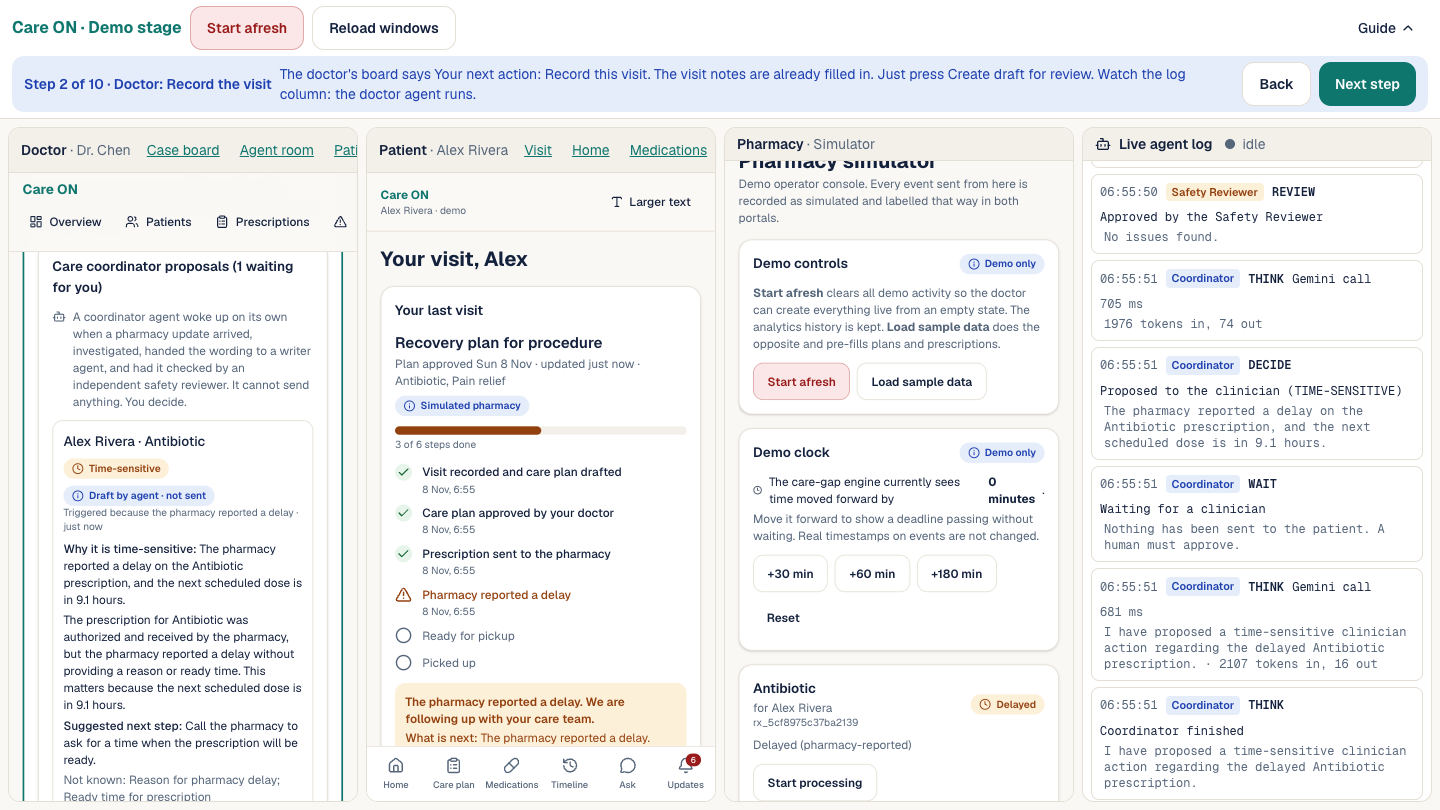
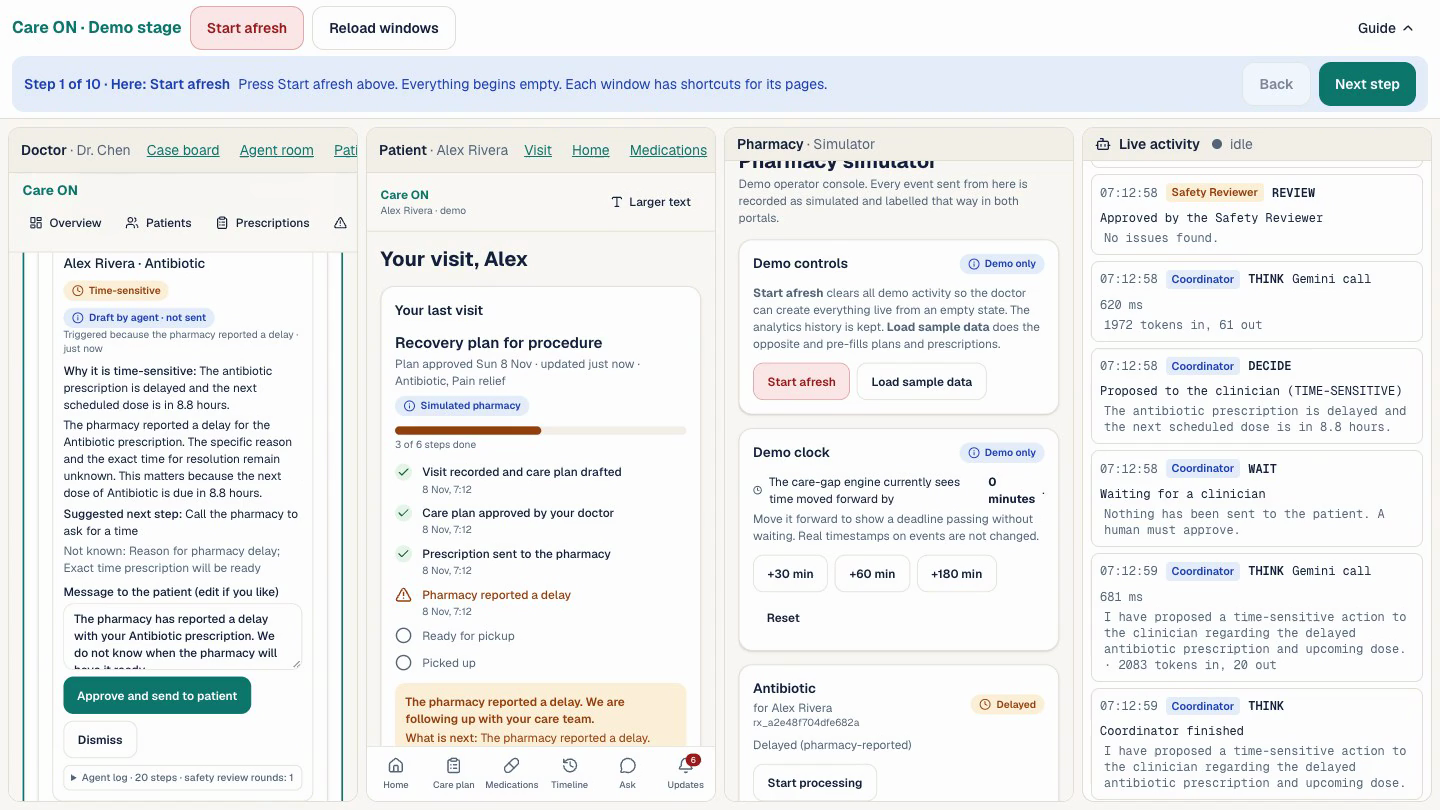
docs: README describes the activity timeline; refresh the demo and safety GIFs and screenshots

diff --git a/README.md b/README.md
@@ -21,7 +21,7 @@
 ![Tiger Data](https://img.shields.io/badge/Tiger_Data-TimescaleDB-fdb515?style=flat-square&logo=timescale&logoColor=black)
 ![Vultr](https://img.shields.io/badge/Vultr-007bfc?style=flat-square&logo=vultr&logoColor=white)
 ![Playwright](https://img.shields.io/badge/Playwright-2ead33?style=flat-square&logo=playwright&logoColor=white)
-![Tests](https://img.shields.io/badge/tests-140_passing-16a34a?style=flat-square)
+![Tests](https://img.shields.io/badge/tests-142_passing-16a34a?style=flat-square)
 
 </div>
 
@@ -33,13 +33,13 @@ Most of care happens **after** the appointment. The doctor writes a plan, a pres
 
 Care ON gives the patient, the doctor and the pharmacy **one shared, auditable timeline**, and puts a small team of AI agents on top of it. The agents **investigate, draft and check each other's work. A human always decides.**
 
-> 🧭 **In one picture:** a visit status bar for the patient, a "your next action" board for the doctor, and a live log that shows exactly what every agent did and why.
+> 🧭 **In one picture:** a visit status bar for the patient, a "your next action" board for the doctor, and a live activity timeline that shows exactly what every person, the system and every agent did, and why.
 
 ---
 
 ## 🎬 See it in action
 
-> Recorded from the real running product (real models, no mock-ups). The three windows are the doctor, the patient and the pharmacy simulator, side by side on the **Demo stage**, with the live agent log on the right.
+> Recorded from the real running product (real models, no mock-ups). The three windows are the doctor, the patient and the pharmacy simulator, side by side on the **Demo stage**, with the live activity timeline on the right.
 
 ### The whole care cycle, with the agents working
 <p align="center"><img src="assets/readme/demo-cycle.gif" alt="Doctor drafts a plan from visit notes, approves it, sends a prescription. The pharmacy reports a delay and the agents investigate, draft and get checked before a human approves." width="100%"/></p>
@@ -74,11 +74,11 @@ The app **describes** change in plain words ("up 5 bpm from the previous reading
 |---|---|
 | <img src="assets/readme/doctor-proposal.png" alt="Care coordinator proposal waiting for the doctor, marked time-sensitive with the reason"/> | <img src="assets/readme/patient-visit.png" alt="Patient visit status bar showing a pharmacy delay and what happens next"/> |
 
-| Live agent log | Agent room |
+| Live activity timeline | Agent room |
 |---|---|
 | <img src="assets/readme/agent-log.png" alt="Timestamped log of coordinator, writer and safety reviewer steps"/> | <img src="assets/readme/agent-room.png" alt="Agent room showing a run step by step"/> |
 
-<img src="assets/readme/stage-explainer.png" alt="Visit explained in plain words, with the live log showing the check against the plan"/>
+<img src="assets/readme/stage-explainer.png" alt="Visit explained in plain words, with the live timeline showing the check against the plan"/>
 
 </details>
 
@@ -92,7 +92,7 @@ The app **describes** change in plain words ("up 5 bpm from the previous reading
 | 🎯 | **Doctor Case board** | One patient, one **"Your next action"** at a time: record the visit, approve the plan, send a prescription, review the agents' proposal, answer a question. No hunting through tabs. |
 | 🤖 | **Care Coordinator** | Wakes by itself when the pharmacy reports a delay, a question or a rejection. Investigates with read-only tools, decides how urgent it is, and proposes. |
 | ✍ | **Writer + Safety Reviewer** | The Coordinator hands wording to a Writer. An independent Reviewer and code checks reject invented times, advice and reassurance. |
-| 📜 | **Live agent log** | Every model call, tool call, hand-off, rejection and human decision, timestamped, in a dock on every doctor page and a column on the Stage. |
+| 📜 | **Live activity timeline** | One timeline of everything that happens: what the doctor, patient and pharmacy did, what the system did, and every agent model call, tool call, hand-off, rejection and human decision, timestamped. Filter by **All**, **Agents** or **People and system**. Shown in a dock on every doctor page and a column on the Stage. |
 | 💬 | **Patient assistant** | Answers only from the patient's approved plan through permissioned tools. Clinical questions go to a human. |
 | 📖 | **Visit Explainer** | Turns the approved plan into everyday words with a glossary. Every line is checked in code against the plan; unsupported lines are removed. |
 | ❤ | **Home readings** | Patient-reported heart rate, blood pressure, pain and temperature, with plain-word trends and clinician-set ranges. |
@@ -168,7 +168,7 @@ flowchart LR
             PA["Patient assistant"]
             EX["Visit Explainer"]
         end
-        LOG["Live agent log"]
+        LOG["Live activity timeline"]
     end
 
     subgraph Models["Models"]
@@ -264,13 +264,13 @@ pnpm dev
 > No database? Add `CAREOS_STORE=memory` to run on a throwaway in-memory store.
 
 ### 3. Open the Demo stage
-Go to **`/demo/stage`**. It signs in the doctor, the patient and the pharmacy at once and shows them side by side with the live agent log.
+Go to **`/demo/stage`**. It signs in the doctor, the patient and the pharmacy at once and shows them side by side with the live activity timeline.
 
 1. Press **Start afresh**.
 2. **Doctor:** the board says "Record this visit". The notes are pre-filled, so press *Create draft for review*, then tick the box and *Approve care plan*.
 3. **Doctor:** "Send a prescription". The medicine is pre-filled from the plan, so press *Authorize prescription*.
 4. **Pharmacy:** *Receive*, *Acknowledge*, then **Report a delay**.
-5. Watch the **log column**: the Coordinator wakes, investigates, hands off to the Writer, gets reviewed, and proposes.
+5. Watch the **activity column**: you see each human step, the system steps, and then the Coordinator wake, investigate, hand off to the Writer, get reviewed, and propose. Use the filter (**All**, **Agents**, **People and system**) to follow just one side.
 6. **Doctor:** "Review what the agents prepared". Approve it. The patient's status bar and Updates show the message.
 
 ### 4. Optional: Tiger Data
@@ -283,7 +283,7 @@ node --env-file=.env.local --import tsx scripts/bench.ts           # measure agg
 ### 5. Test it
 ```bash
 pnpm typecheck && pnpm lint
-pnpm test                                       # 140 unit and API tests (memory store, scripted model)
+pnpm test                                       # 142 unit and API tests (memory store, scripted model)
 
 # 9 database integration tests, in a throwaway schema:
 set -a; . ./.env.local; set +a; CAREOS_TEST_DB=1 pnpm exec vitest run tests/pg.test.ts
@@ -339,7 +339,7 @@ tests/            unit and API tests, database tests, real-browser tests
 
 ## ✅ Quality
 
-- **140** unit and API tests, with a scripted model so nothing calls a real service
+- **142** unit and API tests, with a scripted model so nothing calls a real service
 - **9** opt-in database integration tests on a throwaway schema
 - Real-browser end-to-end tests in Chrome with real models: the full demo, the agents flow, the one-screen Stage, home readings, phone and tablet layouts
 - An accessibility scan (axe, WCAG 2 A/AA) with a sanity test that proves the scanner really flags a bad page
